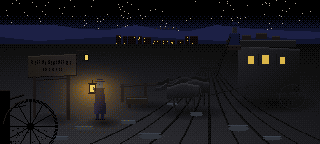
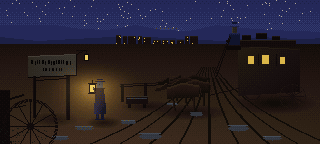
Room 1: the tone was wrong on both axes, and it was never the problem
Tyler put the reference next to the render and asked whether they look alike.
They do not. Measured against the reference at our own spec:

                  median   p10  below30   p90   pure black  dark-half sat
  reference        35.0   16.0    44.4%   53.7      1.0%        46.9%
  as shipped       24.5    0.0    62.6%   40.6     19.7%        15.7%
  now              38.5   14.4    38.9%   52.7      0.1%        47.9%

Twenty times the black and a third of the colour. Two causes, both mine.

THE BAND WAS WRONG FOR THIS ROOM. Errata 40's numbers came off MI's SCUMM
Bar, a windowless night interior, and Room 1 is an open road under an open
sky. Under a sky there is no black -- the sky is a light source and it
reaches everything, which is why the reference has one per cent of index 0
and I shipped a fifth of the frame. Tyler had already ruled three bands
rather than one, one turn earlier, and I still measured Room 1 against
interior. I had the reference's own numbers in hand and reported the miss as
"two marginal misses on the dark side" rather than wrong-side-on-every-axis.
void_audit gains a night_exterior band taken from the reference itself.

I DESATURATED THE NIGHT. The unlit ground was moved to `grey` mid-pass
specifically to make the room read cold. Neutral grey is not cold, it is
absent. The reference's night is a saturated indigo sky over saturated brown
mud; only accent_indigo reaches low luminance while staying blue, and every
[…]

diff --git a/tools/pixelart/room01_hero.py b/tools/pixelart/room01_hero.py
@@ -39,10 +39,16 @@ WHAT DELIBERATELY DOES NOT TRANSFER, per the brief: faces, horse anatomy, the
 lantern's panes, individually lit windows at the reference's density. At this
 width the town is forty pixels of suggestion.
 
-ERRATA 40 IS UNCHANGED. This is composition, not value. The reference itself,
-re-framed to 320x144 and quantised to our locked palette, measures median
-35.0, p10 16.0, 44.4% below luminance 30 -- which is the interior band. None
-of what follows lightens the room to make it prettier.
+TONE COMES FROM THE REFERENCE, NOT FROM THE BAND. Errata 40's numbers were
+measured off MI's SCUMM Bar, which is a windowless night INTERIOR, and this is
+an open road under an open sky. Under a sky there is no black: the sky is a
+light source and it reaches everything. The reference re-framed to 320x144 and
+quantised to our palette measures median 35.0, p10 16.0, 44.4% below 30, p90
+53.7, and ONE PER CENT pure black. The first version of this file was built to
+the interior band instead and shipped 19.7% pure black at a sixth of the
+reference's colour saturation -- a brown-and-black picture where the reference
+is a blue one. Nothing here lightens the room; it stops pretending the road is
+a cellar.
 """
 
 from __future__ import annotations
@@ -107,25 +113,25 @@ GRASS = 18
 #: solid object being shaded, 0.0 is something that emits and is therefore the
 #: same brightness whichever way it faces.
 MATERIALS = {
-    SKY:         ("accent_gold", "accent_indigo", 0.62, 0.16, 1.0),
+    SKY:         ("accent_gold", "accent_indigo", 0.62, 0.42, 1.0),
     STARS:       ("bone", "bone", 0.55, 0.55, 0.0),
-    RANGE_FAR:   ("accent_indigo", "accent_indigo", 0.13, 0.13, 0.5),
-    RANGE_NEAR:  ("accent_indigo", "accent_indigo", 0.05, 0.05, 0.5),
-    TOWN:        ("umber", "umber", 0.13, 0.13, 0.7),
+    RANGE_FAR:   ("accent_indigo", "accent_indigo", 0.34, 0.34, 0.5),
+    RANGE_NEAR:  ("accent_indigo", "accent_indigo", 0.20, 0.20, 0.5),
+    TOWN:        ("umber", "umber", 0.22, 0.22, 0.7),
     TOWN_LIT:    ("accent_gold", "accent_gold", 0.90, 0.90, 0.0),
-    GROUND:      ("ochre", "grey", 0.60, 0.26, 1.0),
-    RUT:         ("umber", "grey", 0.40, 0.10, 1.0),
-    PUDDLE:      ("accent_gold", "sky", 0.55, 0.13, 0.8),
-    TIMBER:      ("umber", "pine_weathered", 0.66, 0.24, 1.0),
-    TIMBER_PALE: ("ochre", "pine_weathered", 0.80, 0.22, 1.0),
-    IRON:        ("umber", "grey", 0.34, 0.14, 1.0),
-    HORSE:       ("umber", "grey", 0.62, 0.30, 1.0),
-    COAT:        ("umber", "accent_indigo", 0.62, 0.16, 1.0),
-    FLESH:       ("dust", "grey", 0.52, 0.28, 1.0),
+    GROUND:      ("ochre", "mud", 0.62, 0.36, 1.0),
+    RUT:         ("umber", "mud", 0.44, 0.16, 1.0),
+    PUDDLE:      ("accent_gold", "sky", 0.55, 0.16, 0.8),
+    TIMBER:      ("umber", "umber", 0.66, 0.30, 1.0),
+    TIMBER_PALE: ("ochre", "dust", 0.80, 0.34, 1.0),
+    IRON:        ("umber", "umber", 0.34, 0.26, 1.0),
+    HORSE:       ("umber", "mud", 0.62, 0.34, 1.0),
+    COAT:        ("umber", "accent_indigo", 0.62, 0.30, 1.0),
+    FLESH:       ("dust", "dust", 0.52, 0.34, 1.0),
     LAMP_CORE:   ("accent_gold", "accent_gold", 1.00, 1.00, 0.0),
-    COACH_BODY:  ("accent_rust", "grey", 0.52, 0.24, 1.0),
+    COACH_BODY:  ("accent_rust", "umber", 0.52, 0.32, 1.0),
     COACH_LIT:   ("accent_gold", "accent_gold", 0.80, 0.80, 0.0),
-    GRASS:       ("sage", "grey", 0.34, 0.14, 1.0),
+    GRASS:       ("sage", "sage", 0.34, 0.24, 1.0),
 }
 
 EMPTY = 255
@@ -231,7 +237,7 @@ def sky_and_ranges(scene: Scene, rng: random.Random) -> None:
         t = y / HORIZON
         # Nothing at all for the top third, then a long slow lift toward the
         # ranges. A short steep one leaves a dithered seam across the frame.
-        scene.hline(0, y, WIDTH, SKY, max(0.0, (t - 0.30) / 0.70) ** 1.9)
+        scene.hline(0, y, WIDTH, SKY, 0.62 + 0.38 * t ** 1.4)
     for _ in range(120):
         x, y = rng.randrange(WIDTH), rng.randrange(0, HORIZON - 10)
         scene.put(x, y, STARS, 0.4 + 0.6 * rng.random())
@@ -310,7 +316,7 @@ def ground(scene: Scene, rng: random.Random) -> None:
         t = (y - HORIZON) / (HEIGHT - HORIZON)
         for x in range(WIDTH):
             edge = abs(x - lx) / WIDTH
-            scene.put(x, y, GROUND, (0.12 + 0.74 * t ** 0.85) * (1.0 - 0.78 * edge ** 1.15))
+            scene.put(x, y, GROUND, (0.26 + 0.74 * t ** 0.95) * (1.0 - 0.46 * edge ** 1.15))
 
     # Eight ruts, all aimed at one vanishing point up the road so they read as
     # one set of tracks rather than eight lines. They STOP well short of it:
@@ -547,7 +553,7 @@ def coach(scene: Scene) -> None:
         for y in range(top, bottom):
             down = (y - top) / max(1, bottom - top)
             scene.put(238 + col, y, COACH_BODY,
-                      (0.56 - 0.32 * t) * (1.0 - 0.48 * down))
+                      (0.74 - 0.34 * t) * (1.0 - 0.42 * down))
         scene.put(238 + col, top, COACH_BODY, 0.95 - 0.35 * t)
         scene.put(238 + col, top + 1, COACH_BODY, 0.62 - 0.24 * t)
     scene.rect(238, 40, 58, 7, COACH_BODY, 0.26)            # roof rack
@@ -611,18 +617,18 @@ def foreground(scene: Scene, rng: random.Random) -> None:
     # camera and every light in the picture, so there is no surface of either
     # of them that anything reaches, and the light pass writes index 0. That
     # is the scale anchor and it is also the frame's largest black.
-    scene.rect(0, 90, 10, HEIGHT - 90, TIMBER, 0.0)
+    scene.rect(0, 90, 10, HEIGHT - 90, TIMBER, 0.22)
     scene.hline(0, 90, 10, TIMBER, 0.30)                    # one moonlit edge
-    scene.line(10, 99, 23, 95, TIMBER, 0.0)                 # a rail off it
+    scene.line(10, 99, 23, 95, TIMBER, 0.20)                 # a rail off it
     scene.line(10, 98, 23, 94, TIMBER, 0.16)
-    scene.line(10, 108, 25, 105, TIMBER, 0.0)
+    scene.line(10, 108, 25, 105, TIMBER, 0.18)
 
     cx, cy, r = 30, 126, 27
     for a in range(0, 360, 3):
         rad = math.radians(a)
         for ring in (r, r - 1, r - 2):
             scene.put(cx + round(ring * math.cos(rad)), cy + round(ring * math.sin(rad)),
-                      TIMBER, 0.0)
+                      TIMBER, 0.26)
     # The one lit thing about it: the top-left of the rim, where the sky is.
     for a in range(186, 262, 2):
         rad = math.radians(a)
@@ -630,10 +636,10 @@ def foreground(scene: Scene, rng: random.Random) -> None:
     for a in range(0, 360, 30):
         rad = math.radians(a)
         scene.line(cx, cy, cx + round((r - 3) * math.cos(rad)),
-                   cy + round((r - 3) * math.sin(rad)), TIMBER, 0.0)
-    scene.disc(cx, cy, 4, 4, TIMBER, 0.0)
+                   cy + round((r - 3) * math.sin(rad)), TIMBER, 0.22)
+    scene.disc(cx, cy, 4, 4, TIMBER, 0.28)
     for _ in range(40):
-        scene.put(rng.randrange(0, 48), rng.randrange(128, 144), GRASS, 0.0)
+        scene.put(rng.randrange(0, 48), rng.randrange(128, 144), GRASS, 0.30)
 
 
 def shadows(scene: Scene) -> None:
@@ -693,7 +699,7 @@ def pick(steps: list[tuple[float, int]], lum: float, x: int, y: int) -> int:
 
 
 #: Below this luminance a pixel is not dark, it is BLACK.
-VOID_LUM = 15.0
+VOID_LUM = 6.0
 #: How the lantern's reach turns into brightness. Under 1.0 the pool has a
 #: broad shoulder; over it, a bright core and a fast fall. A lamp is the
 #: second thing.

diff --git a/tools/pixelart/void_audit.py b/tools/pixelart/void_audit.py
@@ -109,12 +109,18 @@ BANDS = {
     "interior": {"median": (25.0, 35.0), "p10": (0.0, 8.0), "below30": (45.0, 60.0)},
     "day": {"median": (45.0, 60.0), "p10": (0.0, 15.0), "below30": (20.0, 30.0)},
     "monochrome": {"median": (80.0, 100.0), "p10": (0.0, 40.0), "below30": (15.0, 20.0)},
+    # NIGHT EXTERIOR. Not a fourth guess -- these are the reference for Room 1
+    # measured at our own spec, and the point of the band is that an open sky
+    # is a light source. A night road cannot be 55% under luminance 30 and it
+    # cannot have a fifth of its frame at index 0, because there is nothing in
+    # frame for the sky not to reach. AWAITING TYLER'S RULING.
+    "night_exterior": {"median": (32.0, 40.0), "p10": (10.0, 20.0), "below30": (36.0, 48.0)},
 }
 
 #: Which band each composed room answers to. Night exteriors take the interior
 #: band -- Room 1 is a night road and it landed inside it.
 BAND_OF = {
-    "ROOM 1": "interior", "ROOM 3": "interior", "ROOM 5": "interior",
+    "ROOM 1": "night_exterior", "ROOM 3": "interior", "ROOM 5": "interior",
     "ROOM 18": "interior", "ROOM 19": "interior",
     "ROOM 2": "day", "ROOM 29": "day", "ROOM 36": "day",
     "ROOM 13": "monochrome",
